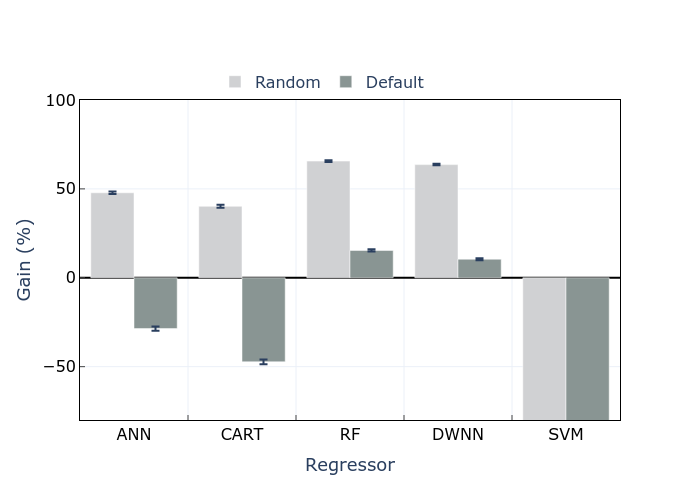
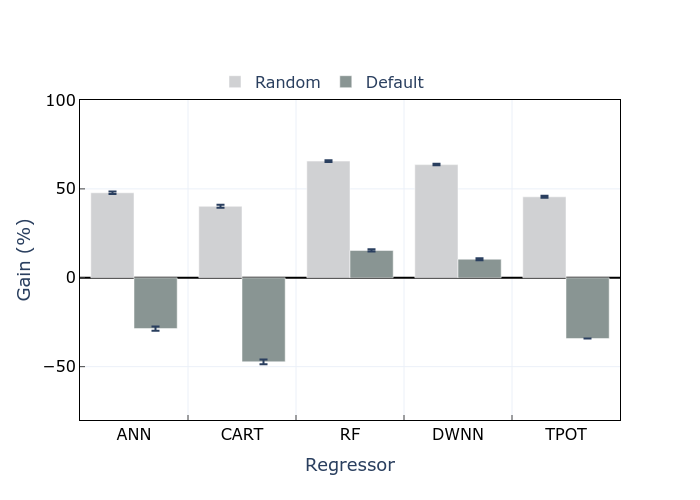
minor changes

Changed region(s): [[0.72, 0.39, 0.87, 0.9]]

diff --git a/analysis/plot_base_analysis_refactored.py b/analysis/plot_base_analysis_refactored.py
@@ -32,7 +32,8 @@ translator = {
     "ann": "ANN",
     "cart": "CART",
     "random": "Random",
-    "default": "Default"
+    "default": "Default",
+    "tpot": "TPOT",
 }
 
 pio.templates.default = "plotly_white"
@@ -115,6 +116,12 @@ for rep in range(REP):
     predictions = pd.read_csv("analysis/plots/base_analysis/R_predictions/predictions_{}.csv".format(rep)).drop("Unnamed: 0", axis = 1)
     predictions["max_pred"] = predictions[combinations_strings].idxmax(axis = 1)
     predictions["real_max_pred"] = predictions.apply(lambda pred: float(meta_base[meta_base.name == pred.dataset][pred.max_pred]),axis = 1)
+    if rep == 0:
+        # Adding TPOT
+        tpot_predictions = pd.read_csv("analysis/plots/base_analysis/tpot_0.csv").drop("Unnamed: 0", axis = 1)
+        tpot_predictions["max_pred"] = tpot_predictions.apply(lambda pred: "None+" + pred["recommended_clf"], axis = 1)
+        tpot_predictions["real_max_pred"] = tpot_predictions.apply(lambda pred: float(meta_base[meta_base.name == pred.dataset][pred.max_pred]), axis = 1)
+
     result = {}
     for baseline in ["random", "default"]:
         result[baseline] = {}
@@ -122,13 +129,17 @@ for rep in range(REP):
         for reg in filter(lambda reg: not reg in ["random", "default"], constants.REGRESSORS):
             reg_sum = predictions[predictions.regressor == reg]["real_max_pred"].sum()
             result[baseline][reg] = (reg_sum - baseline_sum) * 100 / (sum_true_max - baseline_sum)
+        tpot_sum = tpot_predictions["real_max_pred"].sum()
+        result[baseline]["tpot"] = (tpot_sum - baseline_sum) * 100 / (sum_true_max - baseline_sum)
     all_predictions.append(result)
+
+
 
 # PLOTTING
 results = {}
 for baseline in ["random", "default"]:
     results[baseline] = {}
-    for reg in filter(lambda reg: not reg in ["random", "default"], constants.REGRESSORS):
+    for reg in filter(lambda reg: not reg in ["random", "default"], constants.REGRESSORS + ["tpot"]):
         results[baseline][reg] = {}
         results[baseline][reg]["mean"] = np.mean([res[baseline][reg] for res in all_predictions])
         results[baseline][reg]["dist"] = DIST_FUNCTION([res[baseline][reg] for res in all_predictions])

diff --git a/constants.py b/constants.py
@@ -10,6 +10,7 @@ CLASSIFIERS = ["svm", "logistic_regression", "linear_discriminant", "kneighbors"
                #"neural_network"]
 # REGRESSORS = [ "svm", "knn","gradient_boosting", "random_forest", "decision_tree", "random", "default"]
 REGRESSORS = [ "ann", "cart", "randomForest", "dwnn", "svm", "random", "default"]
+# REGRESSORS = [ "ann", "cart", "randomForest", "dwnn", "random", "default"]
 CLASSIFIERS_SCORES = ["recall_micro", "recall_macro", "accuracy", "precision_micro",
                       "precision_macro", "f1_micro", "f1_macro",
                       "balanced_accuracy",

diff --git a/analysis/base_analysis_autosklearn.py b/analysis/base_analysis_autosklearn.py
@@ -108,7 +108,7 @@ automl = autosklearn.classification.AutoSklearnClassifier(
 )
 for rep in range(REPETITIONS):
     results = []
-    for dataset in datasets[:2]:
+    for dataset in datasets:
         dataset_info = arff_io.loadarff(config["dataset"]["folder"] + dataset + ".arff")
         dataset_info = pd.DataFrame(dataset_info[0])
         target = dataset_info["class"].values
